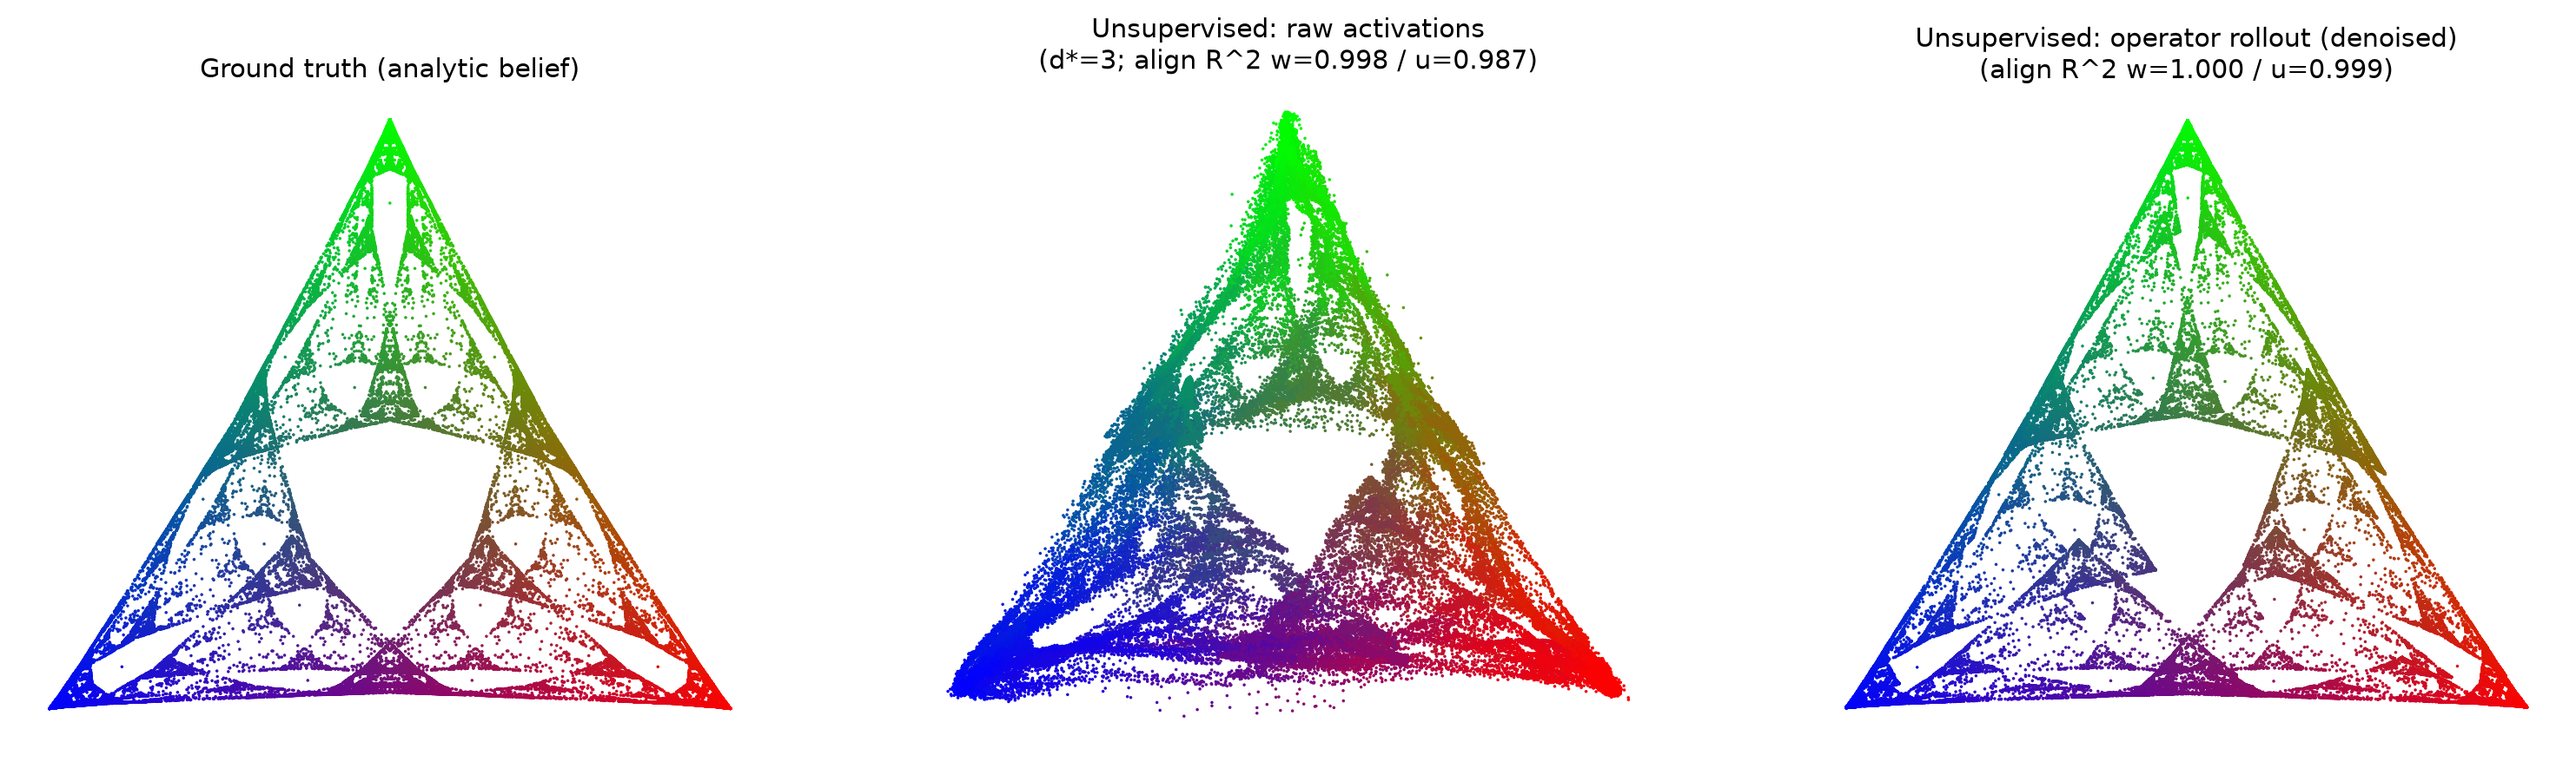
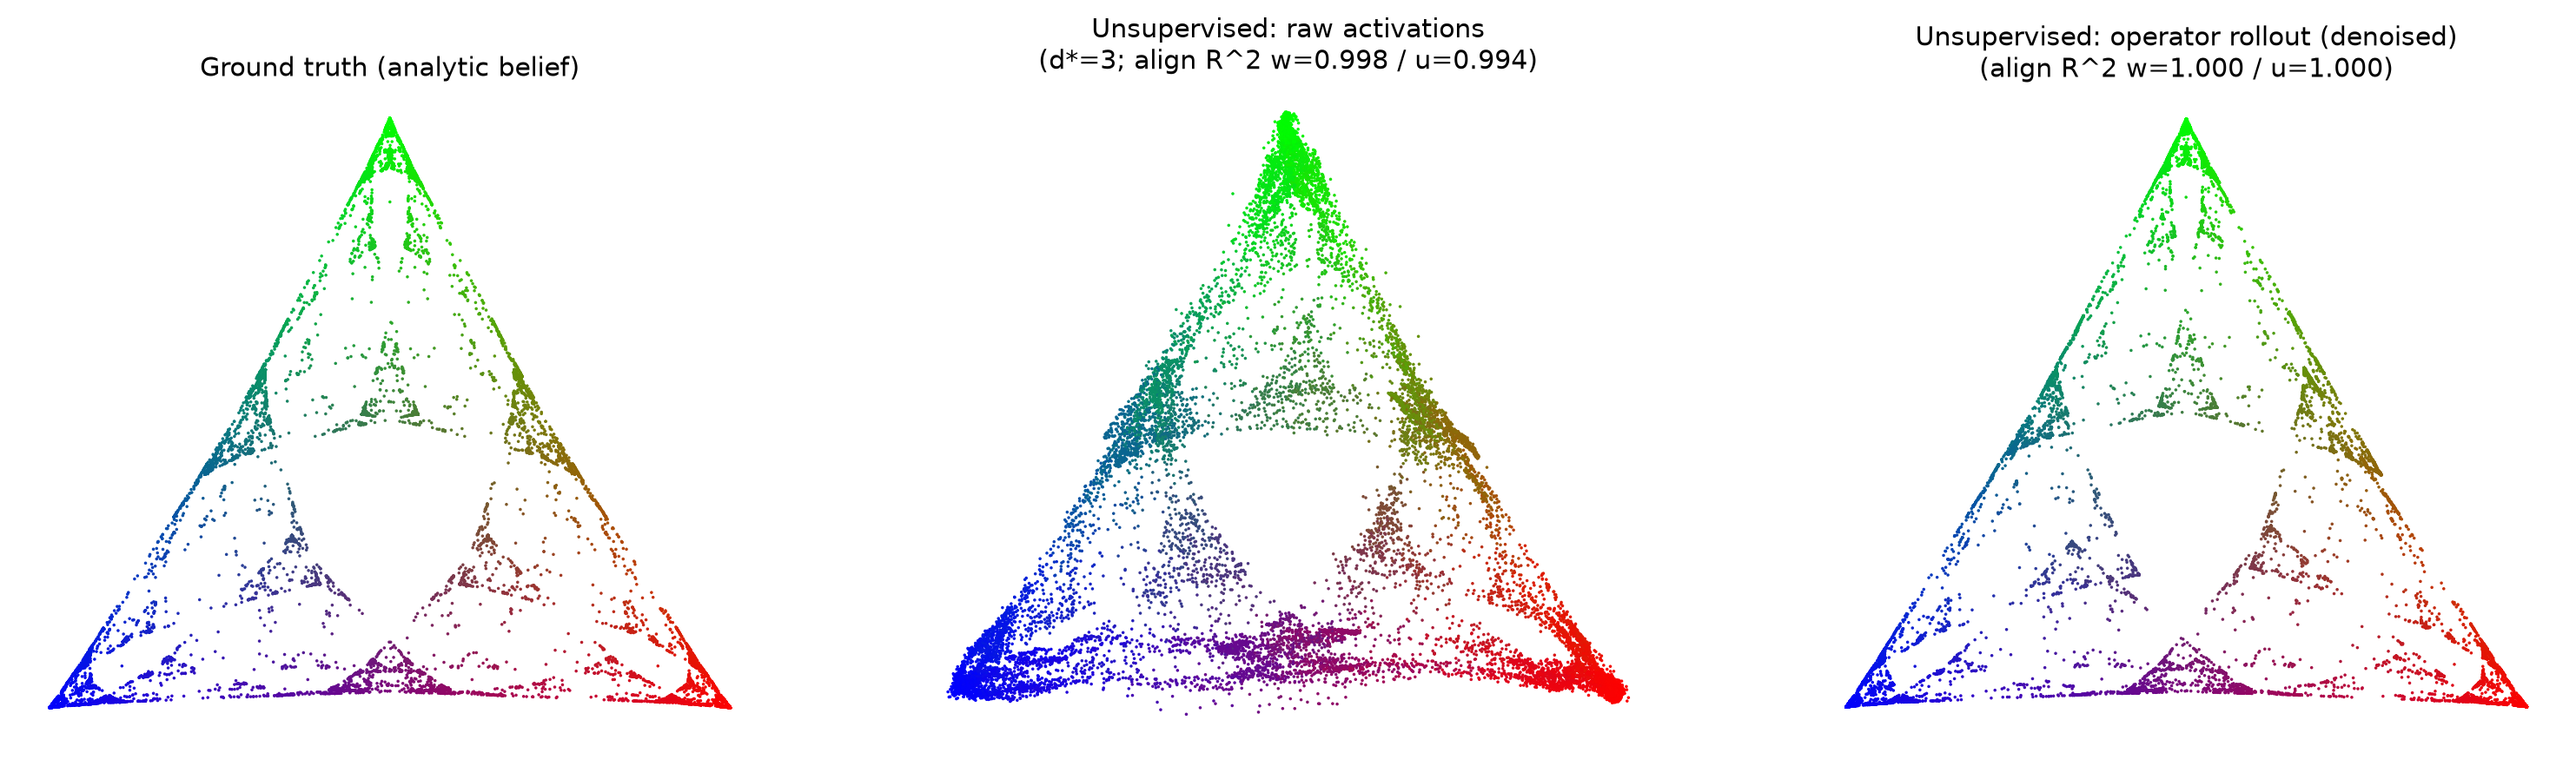
Switch data path to paper-faithful, fully-general sampling
Replace exhaustive MSP enumeration + analytic P(w) weights with the
Astera casper/analyses approach (build_prefix_dataset + weighted
regression), using only sampling so nothing relies on privileged
process knowledge:

- Sample sequences, take all positions, deduplicate by prefix. Causal
  attention makes a position's activation/softmax/belief depend only on
  its prefix, so dedup is exact and the occurrence count is an unbiased
  estimate of P(w).
- Row weight = empirical prefix frequency (counts), not analytic P(w).
- No MixedStateTreeGenerator; belief used for display/scoring only.

Applies to both the supervised baseline (fig03) and the unsupervised
estimator (fig04). Results are preserved under the new regime:
- supervised weighted R^2 = 0.999 (was 0.997 enumerated)
- unsupervised: d*=3 auto-selected; ALS kept (held-out 0.993 -> 0.996);
  operator rollout vs fractal w=1.000 / u=0.9995
- leak check holds: recovered 3-D subspace decodes belief 0.998 <=
  supervised full-64D 0.999.

diff --git a/reproduction/unsupervised_belief_oom.py b/reproduction/unsupervised_belief_oom.py
@@ -56,6 +56,15 @@ task-agnostic to apply, but both are wrong in general:
     old "divide by P" rollout R^2 is still reported for transparency, but it
     grades the operators on a 1/P-amplified scale the fit never optimized.
 
+Data path (paper-faithful, general)
+-----------------------------------
+Following the Astera analysis code (`casper/analyses`: build_prefix_dataset +
+weighted regression), we SAMPLE sequences, take every position, and deduplicate
+by prefix; the row weight is the EMPIRICAL prefix frequency (occurrence count).
+This uses no MSP enumeration and no analytic P(w) — only sampling — so it relies
+only on knowledge available for any model. (Causal attention makes the per-prefix
+activation exact, and the count is an unbiased estimate of P(w).)
+
 What is and isn't unsupervised
 ------------------------------
 - Subspace choice, order selection, operator fit, eigenvalue check, eval
@@ -76,12 +85,15 @@ import torch
 from transformer_lens import HookedTransformer, HookedTransformerConfig
 
 from simplexity.generative_processes.builder import build_hidden_markov_model
-from simplexity.generative_processes.mixed_state_presentation import MixedStateTreeGenerator
-from simplexity.generative_processes.torch_generator import generate_data_batch
+from simplexity.generative_processes.torch_generator import (
+    generate_data_batch,
+    generate_data_batch_with_full_history,
+)
 from simplexity.generative_processes.transition_matrices import mess3
 
 MESS3_PARAMS = {"x": 0.05, "a": 0.85}
-MSP_DEPTH = 10          # enumerate prefixes up to this length
+N_SEQUENCES = 60000     # sampled sequences (paper-style; replaces MSP enumeration)
+BATCH = 2000
 D_MAX = 8               # largest latent dimension considered in the order sweep
 RIDGE = 1e-3            # relative ridge for the CCA whitening (numerical, generic)
 VAL_FRAC = 0.3          # held-out fraction for dynamics-consistent order selection
@@ -106,39 +118,50 @@ def load_model(device):
     return model, ckpt["context_len"]
 
 
-def collect_prefix_features(model, hmm, depth, context_len, device):
-    """For every MSP prefix (up to `depth`, capped at context_len), record:
-        resid[seq]  = final-position residual stream (pre-final-LayerNorm), R^d_model
-        soft[seq]   = final-position softmax over next token, R^vocab
-        belief[seq] = analytic belief (for evaluation/coloring ONLY)
+def collect_prefix_features_sampled(model, hmm, n_sequences, seq_len, batch, device):
+    """Paper-style data path (Astera `casper/analyses`): SAMPLE sequences, take
+    every position, and deduplicate by prefix. Because attention is causal, a
+    position's activation / softmax / belief depend only on the prefix, so all
+    occurrences of a prefix are identical and dedup is lossless. The row weight is
+    the EMPIRICAL prefix frequency (occurrence count, normalised) — an unbiased
+    estimate of P(w) obtained from sampling alone: no MSP enumeration and no
+    analytic probabilities. Belief is recorded for display/scoring ONLY.
+
+    Returns the same (resid, soft, belief, prefix_prob, max_len) interface as the
+    enumerated collector, so the rest of the pipeline is unchanged.
     """
     layer = model.cfg.n_layers - 1
-    max_len = min(depth, context_len)
-    tree = MixedStateTreeGenerator(hmm, max_sequence_length=max_len).generate()
-
-    by_len = defaultdict(lambda: ([], [], []))
-    for seq, v in tree.nodes.items():
-        if len(seq) == 0:
-            continue
-        seqs, bels, probs = by_len[len(seq)]
-        seqs.append(seq)
-        bels.append(v.belief_state)
-        probs.append(v.probability)
-
-    resid, soft, belief, prefix_prob = {}, {}, {}, {}
-    for L in sorted(by_len):
-        seqs, bels, probs = by_len[L]
-        inp = torch.tensor(np.array(seqs, dtype=np.int64), device=device)
+    init = jnp.array(hmm.initial_state)
+    key = jax.random.PRNGKey(SEED)
+    resid, soft, belief = {}, {}, {}
+    count = defaultdict(int)
+    done = 0
+    while done < n_sequences:
+        b = min(batch, n_sequences - done)
+        key, bk = jax.random.split(key)
+        gs = jnp.repeat(init[None, :], b, axis=0)
+        data = generate_data_batch_with_full_history(gs, hmm, b, seq_len, bk, device=device)
+        inputs = data["inputs"].long().to(device)
+        beliefs = np.asarray(data["belief_states"])                      # (b, T, n_states)
         with torch.no_grad():
-            logits, cache = model.run_with_cache(inp, names_filter=f"blocks.{layer}.hook_resid_post")
-        z = cache["resid_post", layer][:, -1, :].cpu().numpy()           # (n, d_model)
-        p = torch.softmax(logits[:, -1, :], dim=-1).cpu().numpy()        # (n, vocab)
-        for i, seq in enumerate(seqs):
-            resid[seq] = z[i]
-            soft[seq] = p[i]
-            belief[seq] = np.array(bels[i])
-            prefix_prob[seq] = probs[i]
-    return resid, soft, belief, prefix_prob, max_len
+            logits, cache = model.run_with_cache(inputs, names_filter=f"blocks.{layer}.hook_resid_post")
+        z = cache["resid_post", layer].cpu().numpy()                     # (b, T, d_model)
+        p = torch.softmax(logits, dim=-1).cpu().numpy()                  # (b, T, vocab)
+        toks = inputs.cpu().numpy()
+        T = toks.shape[1]
+        for si in range(b):
+            pref = ()
+            for pos in range(T):
+                pref = pref + (int(toks[si, pos]),)
+                count[pref] += 1
+                if pref not in resid:                                    # first occurrence (exact)
+                    resid[pref] = z[si, pos]
+                    soft[pref] = p[si, pos]
+                    belief[pref] = beliefs[si, pos]
+        done += b
+    total = sum(count.values())
+    prefix_prob = {w: count[w] / total for w in resid}                   # empirical P(w)
+    return resid, soft, belief, prefix_prob, seq_len
 
 
 def build_transitions(resid, soft, prefix_prob, max_len, vocab):
@@ -521,10 +544,10 @@ def main():
     vocab = hmm.vocab_size
     model, context_len = load_model(device)
 
-    resid, soft, belief, prefix_prob, max_len = collect_prefix_features(
-        model, hmm, MSP_DEPTH, context_len, device
+    resid, soft, belief, prefix_prob, max_len = collect_prefix_features_sampled(
+        model, hmm, N_SEQUENCES, context_len, BATCH, device
     )
-    print(f"prefixes collected: {len(resid)}  (lengths 1..{max_len})")
+    print(f"unique prefixes from {N_SEQUENCES} sampled sequences: {len(resid)}  (lengths 1..{max_len})")
 
     rows, X, P, Yc, Wt = build_transitions(resid, soft, prefix_prob, max_len, vocab)
     print(f"transition rows (prefixes with all children): {len(rows)}")

diff --git a/reproduction/fig03_residual_belief_geometry.py b/reproduction/fig03_residual_belief_geometry.py
@@ -4,21 +4,23 @@ The paper's central claim: a transformer trained only on next-token prediction
 linearly encodes the *entire* belief-state simplex (the fractal from Figure 1)
 in its residual stream - not just the next-token distribution.
 
-Method
+Method (matches Astera `casper/analyses`: sample -> dedup-by-prefix -> weighted)
 ------
 1. Sample many mess3 sequences together with their ground-truth belief state at
    every position (simplexity gives us both).
 2. Run the trained transformer with cache; grab the final-layer residual stream
-   at every position. resid[:, t] and belief[:, t] both condition on tokens 0..t,
-   so they are aligned.
-3. Fit a single linear map  resid -> belief  (ordinary least squares). A high
-   weighted R^2 means the belief is linearly readable from the residual stream.
-4. Visualize: project the regression-predicted beliefs into the 2-simplex,
-   colored by the ground-truth belief. If the fractal reappears, the network has
-   internalized the belief geometry. We also show a raw PCA of the residual
-   stream colored by belief.
+   at every position. resid[:, t] and belief[:, t] both condition on tokens 0..t.
+3. Deduplicate by prefix: causal attention makes a position's activation depend
+   only on its prefix, so all occurrences of a prefix are identical. The row
+   weight is the EMPIRICAL prefix frequency (occurrence count) — the natural data
+   measure from sampling alone (no MSP enumeration, no analytic P(w)).
+4. Fit a single linear map  resid -> belief  (probability-weighted least squares).
+   A high weighted R^2 means the belief is linearly readable from the residual.
+5. Visualize: project the regression-predicted beliefs into the 2-simplex,
+   colored by ground-truth belief; plus a raw PCA of the residual stream.
 """
 
+from collections import defaultdict
 from pathlib import Path
 
 import jax
@@ -58,47 +60,58 @@ def load_model(device: str) -> tuple[HookedTransformer, int]:
 
 
 def collect_residuals(model, hmm, context_len, device):
-    """Run sampled sequences through the model; return (resid, beliefs, probs)."""
+    """Sample sequences, dedup by prefix, return (X, Y, w) over unique prefixes.
+
+    Causal attention => a position's activation/belief depend only on its prefix,
+    so dedup is exact. Weight w = empirical prefix frequency (occurrence count,
+    normalised) — the natural measure from sampling, no analytic P(w).
+    """
     init_state = jnp.array(hmm.initial_state)
     key = jax.random.PRNGKey(SEED)
     layer = model.cfg.n_layers - 1
 
-    resid_chunks, belief_chunks, prob_chunks = [], [], []
+    resid, belief = {}, {}
+    count = defaultdict(int)
     done = 0
     while done < N_SEQUENCES:
         b = min(BATCH, N_SEQUENCES - done)
         key, bk = jax.random.split(key)
         gen_states = jnp.repeat(init_state[None, :], b, axis=0)
-        data = generate_data_batch_with_full_history(gen_states, hmm, b, context_len + 1, bk, device=device)
+        data = generate_data_batch_with_full_history(gen_states, hmm, b, context_len, bk, device=device)
         inputs = data["inputs"].long().to(device)  # (b, T)
         beliefs = np.asarray(data["belief_states"])  # (b, T, n_states)
-        probs = np.asarray(data["prefix_probabilities"])  # (b, T)
-
         with torch.no_grad():
             _, cache = model.run_with_cache(inputs, names_filter=f"blocks.{layer}.hook_resid_post")
-        resid = cache["resid_post", layer].cpu().numpy()  # (b, T, d_model)
-
-        T = inputs.shape[1]
-        resid_chunks.append(resid.reshape(-1, resid.shape[-1]))
-        belief_chunks.append(beliefs[:, :T].reshape(-1, beliefs.shape[-1]))
-        prob_chunks.append(probs[:, :T].reshape(-1))
+        z = cache["resid_post", layer].cpu().numpy()  # (b, T, d_model)
+        toks = inputs.cpu().numpy()
+        T = toks.shape[1]
+        for si in range(b):
+            pref = ()
+            for pos in range(T):
+                pref = pref + (int(toks[si, pos]),)
+                count[pref] += 1
+                if pref not in resid:
+                    resid[pref] = z[si, pos]
+                    belief[pref] = beliefs[si, pos]
         done += b
 
-    X = np.concatenate(resid_chunks, 0)
-    Y = np.concatenate(belief_chunks, 0)
-    w = np.concatenate(prob_chunks, 0)
+    keys = list(resid.keys())
+    X = np.stack([resid[k] for k in keys])
+    Y = np.stack([belief[k] for k in keys])
+    total = sum(count.values())
+    w = np.array([count[k] / total for k in keys])
     return X, Y, w
 
 
-def fit_linear(X: np.ndarray, Y: np.ndarray) -> tuple[np.ndarray, float]:
-    """OLS map X(+bias) -> Y. Returns predictions and weighted-by-uniform R^2."""
+def fit_linear(X: np.ndarray, Y: np.ndarray, w: np.ndarray) -> tuple[np.ndarray, float]:
+    """Probability-weighted OLS map X(+bias) -> Y. Returns predictions and weighted R^2."""
     Xb = np.concatenate([X, np.ones((X.shape[0], 1))], axis=1)
-    beta, *_ = np.linalg.lstsq(Xb, Y, rcond=None)
+    sw = np.sqrt(w)[:, None]
+    beta, *_ = np.linalg.lstsq(Xb * sw, Y * sw, rcond=None)
     Yhat = Xb @ beta
-    ss_res = ((Y - Yhat) ** 2).sum()
-    ss_tot = ((Y - Y.mean(0)) ** 2).sum()
-    r2 = 1.0 - ss_res / ss_tot
-    return Yhat, float(r2)
+    ss_res = (w[:, None] * (Y - Yhat) ** 2).sum()
+    ss_tot = (w[:, None] * (Y - np.average(Y, axis=0, weights=w)) ** 2).sum()
+    return Yhat, float(1.0 - ss_res / ss_tot)
 
 
 def main() -> None:
@@ -108,10 +121,10 @@ def main() -> None:
     model, context_len = load_model(device)
 
     X, Y, w = collect_residuals(model, hmm, context_len, device)
-    print(f"collected {X.shape[0]} (position, sequence) points; d_model={X.shape[1]}")
+    print(f"unique prefixes from {N_SEQUENCES} sampled sequences: {X.shape[0]}; d_model={X.shape[1]}")
 
-    Yhat, r2 = fit_linear(X, Y)
-    print(f"linear regression residual -> belief  R^2 = {r2:.4f}")
+    Yhat, r2 = fit_linear(X, Y, w)
+    print(f"weighted linear regression residual -> belief  R^2 = {r2:.4f}")
 
     # subsample for plotting density
     rng = np.random.default_rng(0)
